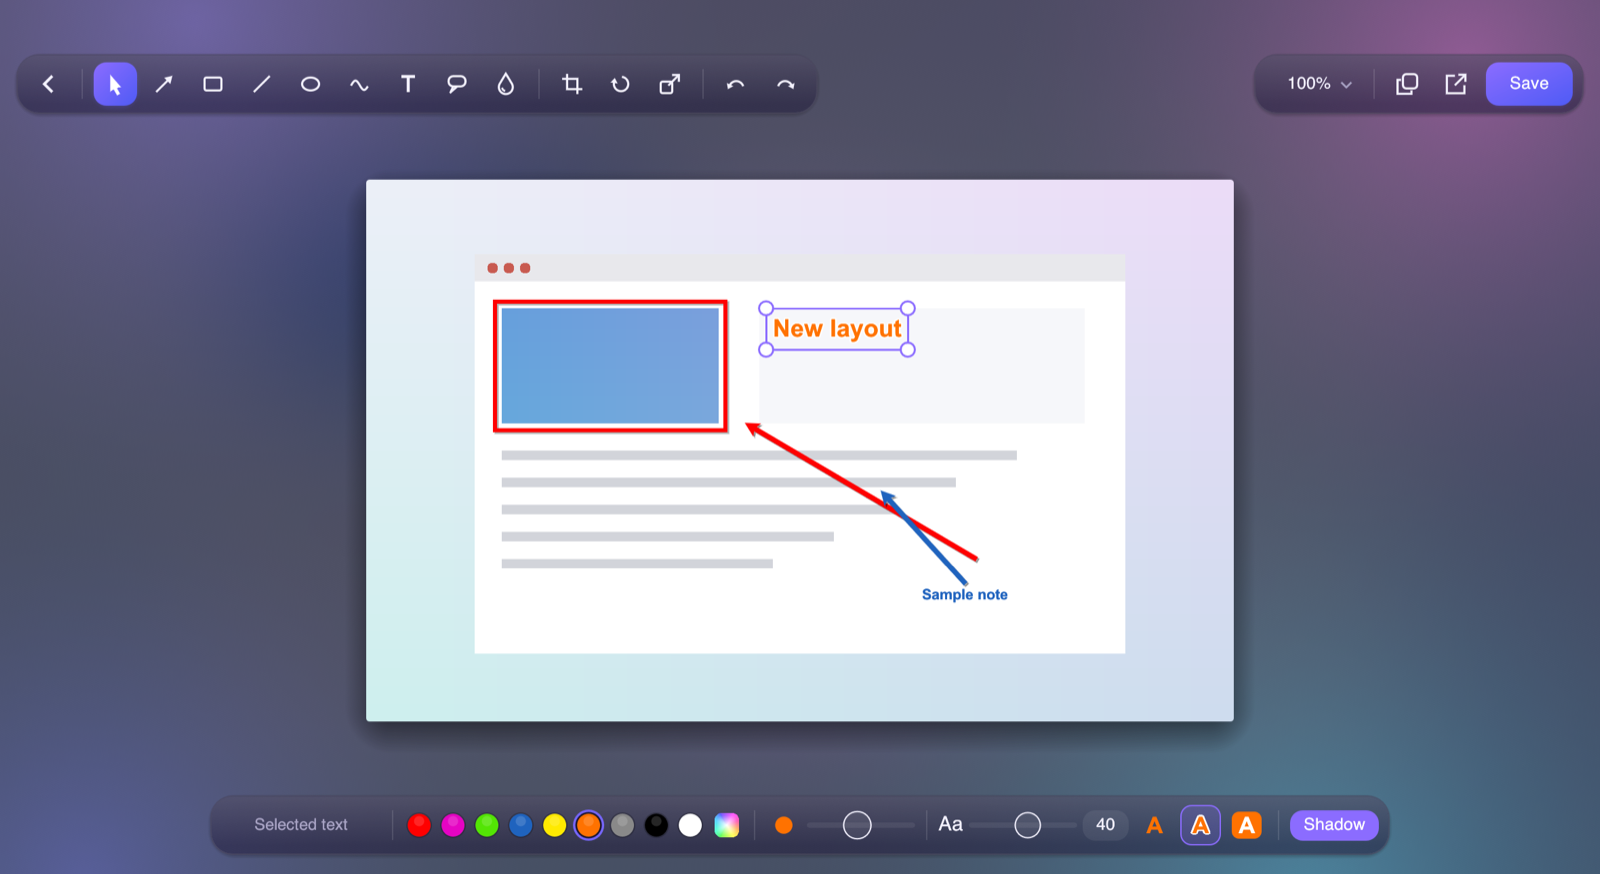
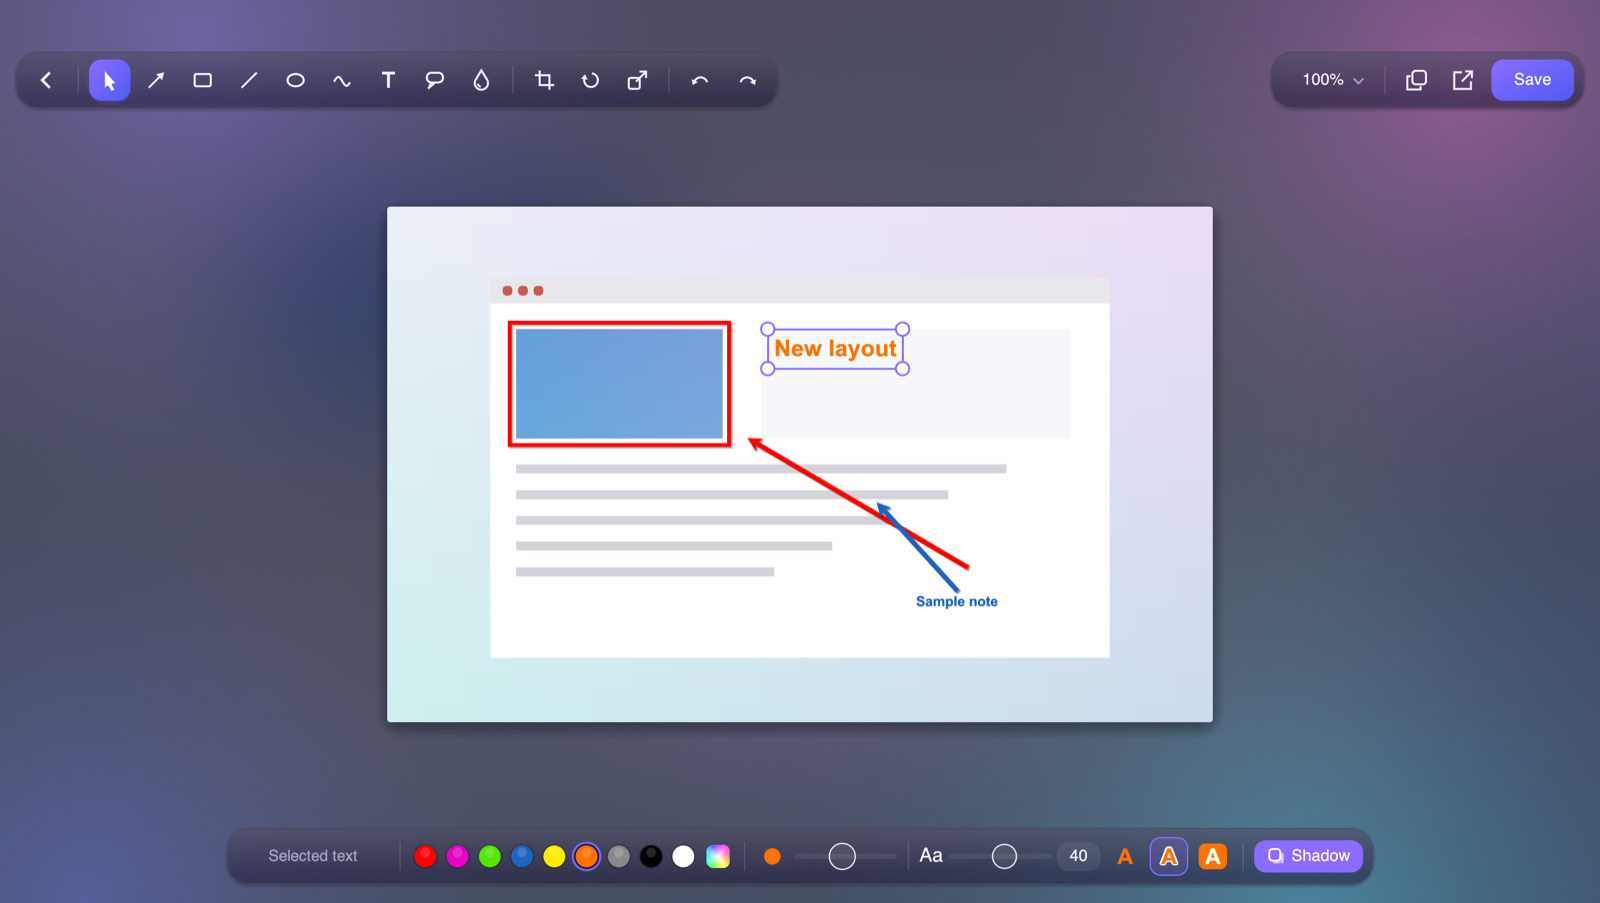
Bump version to 0.5.0
- Cargo.toml, Cargo.lock and the README badge at 0.5.0
- CHANGELOG: 0.5.0 section and comparison links
- README: new home and editor screenshots; drop-shadow wording

diff --git a/CHANGELOG.md b/CHANGELOG.md
@@ -4,6 +4,8 @@ All notable changes to QuickSnap. Versions follow [Semantic Versioning](https://
 
 ## [Unreleased]
 
+## [0.5.0] - 2026-11-17
+
 ### Added
 - Capture Area has its own selection layer over every display (the screen stays live):
   drag an area (⇧ for a square, size shown with "Show hints"), click to capture, Esc to
@@ -13,12 +15,6 @@ All notable changes to QuickSnap. Versions follow [Semantic Versioning](https://
   whole display that was clicked
 
 ### Changed
-- Home screen: the background's colour glows drift slowly around the window, like
-  bubbles, and lean gently towards the pointer with a little parallax. It only moves
-  while the window is in front, and then pauses where it is
-- Editor: the drop shadow around the picture is tighter and lighter, just enough to show
-  where a white screenshot ends once pasted into an email or a document
-- Editor: the Shadow toggle has an icon
 - Home screen: flat capture tiles, bottom buttons and language picker (no sheen along
   the top) on a dark navy shadow instead of the turquoise glow. The shadow lifts wider
   and darker on hover and keyboard focus and tightens when pressed
@@ -28,6 +24,12 @@ All notable changes to QuickSnap. Versions follow [Semantic Versioning](https://
   the shortcut and more space between name and shortcut; icon and name sit at the same
   height whether a tile has a shortcut or not, and all tiles take the same turquoise
   tint on hover as the other buttons. The main window's minimum height grows to 690 pt
+- Home screen: the background's colour glows drift slowly around the window, like
+  bubbles, and lean gently towards the pointer with a little parallax. It only moves
+  while the window is in front, and then pauses where it is
+- Editor: the drop shadow around the picture is tighter and lighter, just enough to show
+  where a white screenshot ends once pasted into an email or a document
+- Editor: the Shadow toggle has an icon
 - Preferences → Appearance: "Show hints" moved to the Capture area group, since it now
   applies to both selection screens; the magnifier stays with the frozen area
 
@@ -118,6 +120,10 @@ No changes in the app itself; this version is about how it is released.
 First version: area, frozen-area, full-screen and delayed captures, screen recording,
 annotation editor, menu-bar app, global hotkeys and an English/Spanish/Catalan interface.
 
+[Unreleased]: https://github.com/donbuche/quicksnap/compare/v0.5.0...HEAD
+[0.5.0]: https://github.com/donbuche/quicksnap/compare/v0.4.0...v0.5.0
+[0.4.0]: https://github.com/donbuche/quicksnap/compare/v0.3.1...v0.4.0
+[0.3.1]: https://github.com/donbuche/quicksnap/compare/v0.3.0...v0.3.1
 [0.3.0]: https://github.com/donbuche/quicksnap/compare/v0.2.0...v0.3.0
 [0.2.0]: https://github.com/donbuche/quicksnap/compare/v0.1.0...v0.2.0
 [0.1.0]: https://github.com/donbuche/quicksnap/releases/tag/v0.1.0

diff --git a/README.md b/README.md
@@ -6,7 +6,7 @@
 
 **A lightweight screenshot and annotation tool for macOS, written in Rust.**
 
-![Version](https://img.shields.io/badge/version-0.4.0-blue)
+![Version](https://img.shields.io/badge/version-0.5.0-blue)
 ![Platform](https://img.shields.io/badge/platform-macOS%2011%2B-lightgrey?logo=apple)
 ![Apple Silicon](https://img.shields.io/badge/Apple%20Silicon-native-success?logo=apple)
 ![Rust](https://img.shields.io/badge/Rust-2021-orange?logo=rust)
@@ -47,8 +47,8 @@ then save or copy it, with no accounts, no uploads and no telemetry.
   with a colour palette (or any custom colour, also by hex code) and line width; every
   item can be moved and resized afterwards
 - **Zoom:** pinch on the trackpad or ⌘ + scroll around the pointer, or the zoom menu
-- **Drop shadow:** optional soft shadow around the exported picture (transparent PNG),
-  like macOS window screenshots
+- **Drop shadow:** optional light shadow around the exported picture (transparent PNG),
+  so a screenshot with a white background still stands out once pasted into an email
 - **Redact and trim:** blur sensitive areas (movable, resizable), crop, rotate and resize
 - **Undo/redo:** up to 40 steps
 - **After each capture:** open the editor, save to a folder, copy to the clipboard, or
